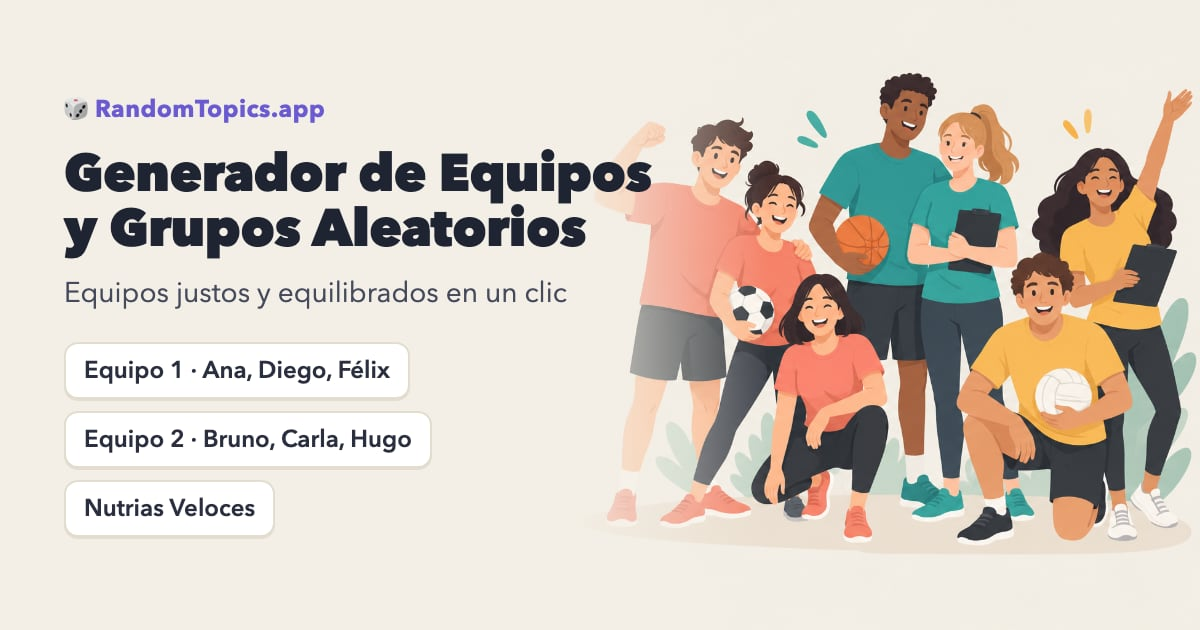
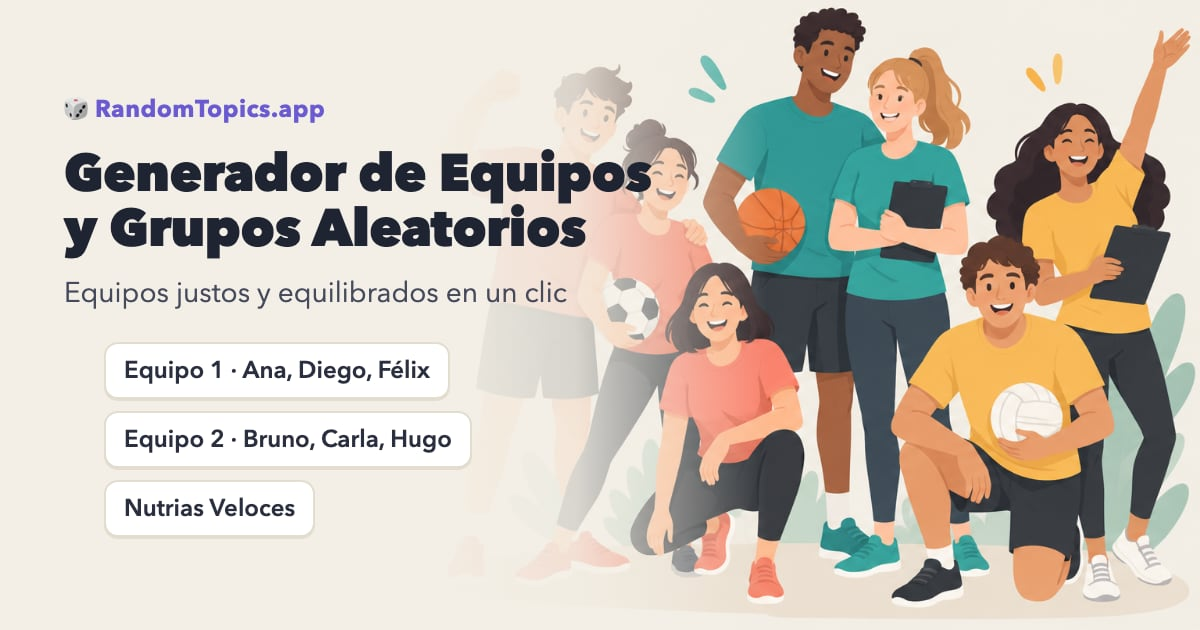
Add Western baby name generator; 3x3 maker wording on /my-9-grid
- /western-baby-name-generator: 126 hand-picked cowboy, country, Southern,
  vintage Western and Yellowstone-style names (boy/girl/gender-neutral),
  each with its usual meaning or origin; gender and style filters, share
  links; covers western/cowboy/yellowstone/country/southern baby names
- Common given names only, nothing quoted from any show
- /my-9-grid title and In short now say 3x3 maker / 3x3 grid maker /
  3x3 generator (same page, no new URL)
- Cross-links (last-name page, Keep playing names group), registry
  (cross-link only), sitemap, share card, data-quality test

diff --git a/src/lib/generators/westernNames.ts b/src/lib/generators/westernNames.ts
@@ -1,0 +1,175 @@
+// Western / cowboy baby names — curated in-house 2026-10. Common given names
+// only (no quotes or plots from any show). Meanings are the usual etymology or
+// the well-known reason the name feels Western; "yellowstone" marks names
+// popularised by ranch dramas such as Yellowstone.
+import { listGenerator } from "./core";
+import type { FilterGroup } from "@/components/generators/GeneratorUI";
+
+export type Gender = "boy" | "girl" | "unisex";
+export type Style = "yellowstone" | "cowboy" | "country" | "vintage" | "southern";
+
+export interface WesternName { name: string; gender: Gender; styles: Style[]; meaning: string }
+
+const n = (name: string, gender: Gender, styles: Style[], meaning: string): WesternName => ({ name, gender, styles, meaning });
+
+export const WESTERN_NAMES: WesternName[] = [
+  // Boys
+  n("Dutton", "boy", ["yellowstone"], "English surname from a place name, “Dudda's settlement”; now known as a ranching family name."),
+  n("Kayce", "boy", ["yellowstone", "cowboy"], "Spelling of Casey, from the Irish Ó Cathasaigh, “watchful, vigilant”."),
+  n("Rip", "boy", ["yellowstone", "cowboy"], "Short, tough-sounding nickname; also short for Ripley, Old English for “strip clearing”."),
+  n("Lloyd", "boy", ["yellowstone", "vintage"], "Welsh llwyd, “grey” or “grey-haired”."),
+  n("Tate", "boy", ["yellowstone"], "Old Norse–English surname often read as “cheerful”."),
+  n("Walker", "boy", ["yellowstone", "country"], "English occupational name for someone who fulled (thickened) cloth by walking on it."),
+  n("Colby", "boy", ["yellowstone"], "English place name from Old Norse, “Koli's farm”."),
+  n("Carter", "boy", ["yellowstone"], "English occupational name, “cart driver”."),
+  n("Jimmy", "boy", ["yellowstone", "vintage"], "Pet form of James, from Hebrew Jacob, “supplanter”."),
+  n("Waylon", "boy", ["country", "cowboy"], "From Wayland, Old English, often given as “land by the road”; made famous by outlaw-country singer Waylon Jennings."),
+  n("Maverick", "boy", ["cowboy"], "After Texas rancher Samuel Maverick, who left his calves unbranded; now means “independent thinker”."),
+  n("Colt", "boy", ["cowboy"], "English word for a young horse; also the classic Western revolver."),
+  n("Wyatt", "boy", ["cowboy"], "From the medieval name Wyot, Old English “brave in war”; Wyatt Earp made it a frontier name."),
+  n("Cody", "boy", ["cowboy"], "Irish surname Ó Cuidighthigh, “helpful”; Cody, Wyoming, is named after Buffalo Bill Cody."),
+  n("Wade", "boy", ["cowboy", "southern"], "Old English, “to go” or “river ford”."),
+  n("Boone", "boy", ["cowboy", "southern"], "From Old French bon, “good”; frontiersman Daniel Boone."),
+  n("Bowie", "boy", ["cowboy"], "Scottish Gaelic, “yellow-haired”; the Bowie knife and Jim Bowie of the Alamo."),
+  n("Ryder", "boy", ["cowboy"], "English, “mounted rider, horseman”."),
+  n("Ranger", "boy", ["cowboy"], "English word for a keeper of open land; brings to mind the Texas Rangers."),
+  n("Rowdy", "boy", ["cowboy"], "English, “boisterous”; a rodeo-arena favourite."),
+  n("Tex", "boy", ["cowboy"], "Nickname for someone from Texas."),
+  n("Duke", "boy", ["cowboy", "vintage"], "From Latin dux, “leader”; John Wayne's lifelong nickname."),
+  n("Jesse", "boy", ["cowboy", "vintage"], "Hebrew, “gift”."),
+  n("Levi", "boy", ["cowboy", "vintage"], "Hebrew, “joined, attached”; also Levi Strauss of denim jeans."),
+  n("Dallas", "boy", ["cowboy", "southern"], "Scottish place name, “meadow dwelling”; also the Texas city."),
+  n("Austin", "boy", ["cowboy", "southern"], "From Augustine, Latin “great, venerable”; the capital of Texas."),
+  n("Ridge", "boy", ["cowboy"], "English, a long mountain ridge."),
+  n("Wilder", "boy", ["cowboy"], "English, “wild, untamed”."),
+  n("Wes", "boy", ["cowboy", "vintage"], "Short for Wesley, Old English “western meadow”."),
+  n("Weston", "boy", ["cowboy"], "Old English, “western town”."),
+  n("Hank", "boy", ["country", "vintage"], "Pet form of Henry, “home ruler”; Hank Williams."),
+  n("Cash", "boy", ["country"], "English word for money; a nod to Johnny Cash."),
+  n("Garth", "boy", ["country"], "Old Norse garðr, “enclosure, garden”."),
+  n("Merle", "boy", ["country", "vintage"], "From French merle, “blackbird”; Merle Haggard."),
+  n("Dwight", "boy", ["country", "vintage"], "English surname of uncertain origin, possibly from Dionysius."),
+  n("Hayes", "boy", ["country"], "English and Irish, “hedged enclosure”."),
+  n("Tucker", "boy", ["country", "southern"], "English occupational name for a cloth fuller."),
+  n("Brooks", "boy", ["country"], "English, “of the brook”."),
+  n("Clay", "boy", ["country", "southern"], "English, a worker in clay or someone living on clay soil."),
+  n("Lane", "boy", ["country"], "English, “narrow road”."),
+  n("Grady", "boy", ["country", "southern"], "Irish Ó Grádaigh, often given as “noble”."),
+  n("Luke", "boy", ["country"], "Greek, “man from Lucania”."),
+  n("Beau", "boy", ["southern"], "French, “handsome”."),
+  n("Rhett", "boy", ["southern"], "From a Dutch surname meaning “advice”; Rhett Butler made it Southern."),
+  n("Crockett", "boy", ["southern", "cowboy"], "Surname of frontiersman Davy Crockett."),
+  n("Jackson", "boy", ["southern"], "English, “son of Jack”."),
+  n("Augustus", "boy", ["vintage", "cowboy"], "Latin, “great, venerable”; often shortened to Gus on the trail."),
+  n("Gus", "boy", ["vintage", "cowboy"], "Short for Augustus or Angus."),
+  n("Amos", "boy", ["vintage"], "Hebrew, “carried by God”."),
+  n("Jed", "boy", ["vintage"], "Short for Jedidiah, Hebrew “beloved of God”."),
+  n("Silas", "boy", ["vintage"], "Latin Silvanus, “of the forest”."),
+  n("Emmett", "boy", ["vintage", "cowboy"], "From German Emma, “whole, universal”."),
+  n("Virgil", "boy", ["vintage", "cowboy"], "From the Roman family name Vergilius."),
+  n("Ezra", "boy", ["vintage"], "Hebrew, “help”."),
+  n("Abner", "boy", ["vintage"], "Hebrew, “father of light”."),
+  n("Calvin", "boy", ["vintage"], "From Latin calvus, “bald”."),
+  n("Holden", "boy", ["vintage"], "Old English, “deep valley”."),
+  n("Hudson", "boy", ["country"], "English, “son of Hugh”."),
+  n("Sawyer", "boy", ["country"], "English occupational name, “woodcutter”."),
+  n("Archer", "boy", ["cowboy"], "English, “bowman”."),
+  n("Jasper", "boy", ["vintage"], "Possibly Persian, “treasurer”; also a red gemstone."),
+  n("Cassidy", "boy", ["cowboy"], "Irish Ó Caiside, “curly-haired”; outlaw Butch Cassidy."),
+  // Girls
+  n("Beth", "girl", ["yellowstone", "vintage"], "Short for Elizabeth, Hebrew “God is my oath”."),
+  n("Monica", "girl", ["yellowstone"], "Late Latin name of uncertain origin, often linked to “advisor”."),
+  n("Evelyn", "girl", ["yellowstone", "vintage"], "From the Norman name Aveline; an old English surname turned first name."),
+  n("Laramie", "girl", ["yellowstone", "cowboy"], "After the Wyoming city, named for French-Canadian trapper Jacques La Ramée."),
+  n("Dolly", "girl", ["country", "vintage"], "Pet form of Dorothy, Greek “gift of God”; Dolly Parton."),
+  n("Reba", "girl", ["country"], "Short for Rebecca, Hebrew, often given as “to bind”; Reba McEntire."),
+  n("Loretta", "girl", ["country", "vintage"], "Italian diminutive of Laura, “laurel”; Loretta Lynn."),
+  n("Patsy", "girl", ["country", "vintage"], "Pet form of Patricia, Latin “noble”; Patsy Cline."),
+  n("June", "girl", ["country", "vintage"], "From the month, named for the Roman goddess Juno; June Carter Cash."),
+  n("Emmylou", "girl", ["country"], "Blend of Emmy and Lou, made famous by Emmylou Harris."),
+  n("Annie", "girl", ["cowboy", "vintage"], "Pet form of Anne, Hebrew “grace”; sharpshooter Annie Oakley."),
+  n("Belle", "girl", ["cowboy", "southern"], "French, “beautiful”; Western outlaw Belle Starr."),
+  n("Clementine", "girl", ["cowboy", "vintage"], "Latin, “merciful”; the old Western ballad “Oh My Darling, Clementine”."),
+  n("Josephine", "girl", ["vintage", "cowboy"], "Hebrew, “God will increase”."),
+  n("Hattie", "girl", ["vintage", "southern"], "Pet form of Harriet, “home ruler”."),
+  n("Opal", "girl", ["vintage"], "Gemstone; from Sanskrit upala, “precious stone”."),
+  n("Pearl", "girl", ["vintage"], "The gem; a frontier-era favourite."),
+  n("Ruby", "girl", ["vintage", "country"], "The red gem, from Latin ruber, “red”."),
+  n("Etta", "girl", ["vintage"], "Short for Henrietta, “home ruler”; outlaw-era Etta Place."),
+  n("Mae", "girl", ["vintage", "southern"], "Spelling of May, the month; also short for Mary or Margaret."),
+  n("Lucille", "girl", ["vintage", "country"], "French form of Lucilla, Latin “light”."),
+  n("Hazel", "girl", ["vintage"], "The hazel tree."),
+  n("Della", "girl", ["vintage"], "Short for Adela, Germanic “noble”."),
+  n("Cora", "girl", ["vintage"], "Greek Kore, “maiden”."),
+  n("Adeline", "girl", ["vintage"], "Germanic, “noble”."),
+  n("Daisy", "girl", ["country", "vintage"], "The flower, Old English “day's eye”."),
+  n("Rose", "girl", ["country", "vintage"], "The flower."),
+  n("Savannah", "girl", ["southern"], "Spanish sabana, “treeless plain”; the Georgia city."),
+  n("Georgia", "girl", ["southern"], "Greek, “farmer”; the Southern state."),
+  n("Magnolia", "girl", ["southern"], "The flowering tree of the American South, named for botanist Pierre Magnol."),
+  n("Scarlett", "girl", ["southern"], "English, “scarlet cloth”; Scarlett O'Hara."),
+  n("Carolina", "girl", ["southern"], "Feminine of Charles, “free man”; the Carolinas."),
+  n("Virginia", "girl", ["southern", "vintage"], "From the Roman family name Verginius; the state."),
+  n("Charlotte", "girl", ["southern"], "French feminine of Charles, “free man”."),
+  n("Lainey", "girl", ["country"], "Short for Elaine, from Helen, Greek “torch, bright light”."),
+  n("Wynonna", "girl", ["country", "cowboy"], "From Winona, Dakota Sioux “firstborn daughter”."),
+  n("Tallulah", "girl", ["southern"], "Choctaw place name often given as “leaping water”."),
+  n("Sierra", "girl", ["cowboy"], "Spanish, “mountain range”."),
+  n("Willow", "girl", ["country"], "The willow tree."),
+  n("Juniper", "girl", ["cowboy"], "The evergreen shrub of Western hills."),
+  n("Ivy", "girl", ["country", "vintage"], "The climbing plant."),
+  n("Harlow", "girl", ["country"], "Old English, “army hill”."),
+  n("Kinsley", "girl", ["country"], "Old English, “king's meadow”."),
+  n("Blakely", "girl", ["country", "southern"], "Old English, “dark meadow”."),
+  n("Paisley", "girl", ["country"], "The swirling textile pattern, named after Paisley in Scotland."),
+  n("Raelynn", "girl", ["country"], "Modern blend of Rae and Lynn."),
+  // Unisex
+  n("Dakota", "unisex", ["cowboy"], "Dakota Sioux, “friend, ally”; the two Dakotas."),
+  n("Cheyenne", "unisex", ["cowboy"], "From the Cheyenne people; also Wyoming's capital."),
+  n("Montana", "unisex", ["cowboy", "yellowstone"], "Spanish montaña, “mountain”; the state where Yellowstone's ranch country lies."),
+  n("Wyoming", "unisex", ["cowboy"], "From a Lenape phrase often given as “at the big river flat”."),
+  n("Oakley", "unisex", ["cowboy", "country"], "Old English, “oak clearing”; Annie Oakley."),
+  n("Sage", "unisex", ["cowboy"], "The sagebrush of the Western plains; also “wise”."),
+  n("Aspen", "unisex", ["cowboy"], "The quaking aspen tree of the Rockies."),
+  n("Casey", "unisex", ["country", "cowboy"], "Irish Ó Cathasaigh, “watchful”."),
+  n("Shelby", "unisex", ["southern", "country"], "Old Norse–English place name, “willow farm”."),
+  n("Reese", "unisex", ["southern"], "From Welsh Rhys, “ardour, enthusiasm”."),
+  n("Jessie", "unisex", ["cowboy", "vintage"], "Pet form of Jesse or Jessica."),
+  n("Charlie", "unisex", ["country", "vintage"], "Pet form of Charles or Charlotte, “free”."),
+  n("Bailey", "unisex", ["country"], "English, “bailiff, steward”."),
+  n("Harper", "unisex", ["southern"], "English, “harp player”; Harper Lee."),
+  n("Sutton", "unisex", ["southern", "country"], "Old English, “southern town”."),
+  n("Rio", "unisex", ["cowboy"], "Spanish, “river”; the Rio Grande."),
+  n("River", "unisex", ["cowboy", "country"], "Nature name, the river."),
+  n("Rowan", "unisex", ["country"], "Irish Ó Ruadháin, “little red one”; also the rowan tree."),
+];
+
+export const GENDER_LABELS: Record<Gender, string> = { boy: "Boy", girl: "Girl", unisex: "Gender-neutral" };
+export const STYLE_LABELS: Record<Style, string> = {
+  yellowstone: "Yellowstone-style ranch",
+  cowboy: "Cowboy & frontier",
+  country: "Country music",
+  vintage: "Vintage Western",
+  southern: "Southern",
+};
+
+export function westernFilters(): FilterGroup[] {
+  return [
+    { id: "gender", label: "Gender", multi: true, options: Object.entries(GENDER_LABELS).map(([value, label]) => ({ value, label })) },
+    { id: "style", label: "Style", multi: true, options: Object.entries(STYLE_LABELS).map(([value, label]) => ({ value, label })) },
+  ];
+}
+
+export function westernNameGenerator() {
+  return listGenerator<WesternName>({
+    items: WESTERN_NAMES,
+    key: (w) => w.name,
+    facets: { gender: (w) => [w.gender], style: (w) => w.styles },
+    toResult: (w) => ({
+      key: w.name,
+      title: w.name,
+      subtitle: `${GENDER_LABELS[w.gender]} · ${w.styles.map((s) => STYLE_LABELS[s]).join(", ")}`,
+      detail: w.meaning,
+    }),
+  });
+}

diff --git a/src/app/western-baby-name-generator/page.tsx b/src/app/western-baby-name-generator/page.tsx
@@ -1,0 +1,75 @@
+import type { Metadata } from "next";
+import Link from "next/link";
+import GeneratorPageShell, { SectionTitle, linkClass } from "@/components/generators/GeneratorPageShell";
+import WesternNameGenerator from "@/components/generators/WesternNameGenerator";
+import { SITE_URL, hreflangAlternates } from "@/i18n/config";
+import { generatorSocial } from "@/lib/generatorSocial";
+import { STYLE_LABELS, WESTERN_NAMES, type Style } from "@/lib/generators/westernNames";
+
+const PATH = "/western-baby-name-generator";
+const TITLE = "Western Baby Name Generator — Cowboy, Country & Yellowstone-Style Names";
+const DESCRIPTION =
+  `Free Western baby name generator: ${WESTERN_NAMES.length} cowboy, country, Southern and vintage Western names for boys, girls and gender-neutral babies — including Yellowstone-style ranch names like Kayce, Rip, Beth and Laramie — each with its meaning or origin.`;
+
+const SOCIAL = generatorSocial({ card: "western-baby-name-generator", title: TITLE, description: DESCRIPTION, alt: "Western baby name generator — cowboy and country names with meanings" });
+
+export const metadata: Metadata = {
+  title: { absolute: TITLE },
+  description: DESCRIPTION,
+  keywords: ["western baby names", "cowboy baby names", "yellowstone baby names", "country baby names", "southern baby names generator", "western baby name generator", "cowboy names for boys", "western girl names"],
+  alternates: { canonical: PATH, languages: hreflangAlternates(PATH) },
+  openGraph: { title: TITLE, description: DESCRIPTION, url: `${SITE_URL}${PATH}`, siteName: "Random Topics", type: "website", images: SOCIAL.images },
+  twitter: SOCIAL.twitter,
+};
+
+const FAQ = [
+  { question: "What are Western baby names?", answer: "Western or cowboy baby names are names with a ranch, frontier or country-music feel — trail and rodeo names like Colt, Wyatt and Maverick, place names like Dallas, Cheyenne and Laramie, and vintage favourites like Annie, Clementine and Gus. This generator also covers Southern classics and gender-neutral nature names such as Sage and Aspen." },
+  { question: "What are Yellowstone-style baby names?", answer: "Ranch dramas such as Yellowstone brought names like Dutton, Kayce, Rip, Beth, Lloyd, Tate and Laramie back into conversation. Pick the “Yellowstone-style ranch” style to see them. They are ordinary given names; the meanings shown are their usual origins, not anything from the show." },
+  { question: "Can I filter by boy, girl or gender-neutral?", answer: "Yes. Choose one or more genders and one or more styles — Yellowstone-style ranch, cowboy & frontier, country music, vintage Western or Southern — then generate. Leave a filter empty to include everything." },
+  { question: "Where do the meanings come from?", answer: "Each meaning is the name's usual etymology, or the well-known reason it feels Western (a frontier figure, a place or a country singer). Name meanings are often debated, so treat them as a starting point and look up a name you love in more depth." },
+  { question: "Can I share a list of names?", answer: "Yes — every result list has a share link that reopens exactly the same names, so you can send a shortlist to your partner or family." },
+];
+
+const STYLES = Object.keys(STYLE_LABELS) as Style[];
+
+export default function WesternBabyNamePage() {
+  return (
+    <GeneratorPageShell
+      locale="en"
+      path={PATH}
+      name="Western Baby Name Generator"
+      heading={["Western Baby Name", "Generator"]}
+      intro="Cowboy, country, Southern and Yellowstone-style names for boys, girls and gender-neutral babies — each with its meaning."
+      description={DESCRIPTION}
+      updated="2026-10-13"
+      faq={FAQ}
+      inShort={`Pick boy, girl or gender-neutral and a style — Yellowstone-style ranch, cowboy & frontier, country music, vintage Western or Southern — and get random Western baby names from a hand-picked list of ${WESTERN_NAMES.length}, each with a one-line meaning or origin. Save a shortlist with the share link. It is free and needs no signup.`}
+      related={[
+        { href: "/last-name-generator", label: "Last name generator" },
+        { href: "/country-name-generator", label: "Country name generator" },
+        { href: "/character-name-generator", label: "Character name generator" },
+        { href: "/viking-name-generator", label: "Viking name generator" },
+      ]}
+      content={
+        <>
+          <SectionTitle>Western names by style</SectionTitle>
+          {STYLES.map((s) => (
+            <p key={s}>
+              <strong>{STYLE_LABELS[s]}:</strong>{" "}
+              {WESTERN_NAMES.filter((w) => w.styles.includes(s)).slice(0, 14).map((w) => w.name).join(", ")}.
+            </p>
+          ))}
+          <SectionTitle>Choosing a Western name</SectionTitle>
+          <ul className="list-disc pl-5 space-y-1">
+            <li><strong>Say it with the last name.</strong> One-syllable names (Colt, Wade, Rose) pair well with longer surnames; longer ones (Clementine, Augustus) with short surnames. Try surnames in the <Link href="/last-name-generator" className={linkClass}>last name generator</Link>.</li>
+            <li><strong>Nickname test.</strong> Augustus becomes Gus, Josephine becomes Josie, Wesley becomes Wes — check you like both.</li>
+            <li><strong>Place names</strong> such as Dallas, Cheyenne, Montana or Laramie carry the West without sounding like a costume.</li>
+            <li>Writing a Western story instead? The <Link href="/character-name-generator" className={linkClass}>character name generator</Link> and <Link href="/country-name-generator" className={linkClass}>country name generator</Link> help with the rest of the cast and the world.</li>
+          </ul>
+        </>
+      }
+    >
+      <WesternNameGenerator />
+    </GeneratorPageShell>
+  );
+}

diff --git a/src/app/my-9-grid/page.tsx b/src/app/my-9-grid/page.tsx
@@ -6,7 +6,7 @@ import { SITE_URL, hreflangAlternates } from "@/i18n/config";
 import { generatorSocial } from "@/lib/generatorSocial";
 
 const PATH = "/my-9-grid";
-const TITLE = "My 9 Grid Maker — Make a 3×3 Picture Grid from Any 9 Images, Free";
+const TITLE = "3x3 Grid Maker (My 9 Template) — Make a 3×3 Picture Grid, Free";
 const DESCRIPTION =
   "Free 3×3 grid maker for the My 9 trend: add any 9 pictures — K-pop, characters, foods, places — rearrange them and download one 1080×1080 PNG or story image. Works in your browser, no upload, no signup, no watermark.";
 
@@ -15,7 +15,7 @@ const SOCIAL = generatorSocial({ card: "my-9-grid", title: TITLE, description: D
 export const metadata: Metadata = {
   title: { absolute: TITLE },
   description: DESCRIPTION,
-  keywords: ["my 9 grid", "3x3 grid maker", "9 grid template", "my 9 template", "3x3 picture grid", "9 picture collage", "my top 9 maker"],
+  keywords: ["3x3 maker", "3x3 grid maker", "3x3 generator", "my 9 grid", "9 grid template", "my 9 template", "3x3 picture grid", "9 picture collage", "my top 9 maker"],
   alternates: { canonical: PATH, languages: hreflangAlternates(PATH) },
   openGraph: { title: TITLE, description: DESCRIPTION, url: `${SITE_URL}${PATH}`, siteName: "Random Topics", type: "website", images: SOCIAL.images },
   twitter: SOCIAL.twitter,
@@ -40,7 +40,7 @@ export default function MyNineGridPage() {
       updated="2026-10-12"
       faq={FAQ}
       related={[{ href: "/my-9-albums", label: "My 9 Albums" }, { href: "/my-9-games", label: "My 9 Games" }, { href: "/my-9-movies", label: "My 9 Movies" }, { href: "/my-9-anime", label: "My 9 Anime" }, { href: "/my-9-books", label: "My 9 Books" }, { href: "/random-food-generator", label: "Random food generator" }]}
-      inShort="Choose up to nine pictures from your device, reorder them by tapping two squares, give the grid a title and download a 1080×1080 PNG or a story-size image. Everything happens in your browser — your pictures are never uploaded."
+      inShort="A free 3x3 maker (also called a 3x3 grid maker or 3x3 generator): choose up to nine pictures from your device, reorder them by tapping two squares, give the grid a title and download a 1080×1080 PNG or a story-size image. Everything happens in your browser — your pictures are never uploaded."
       content={
         <>
           <SectionTitle>Any topic, nine pictures</SectionTitle>

diff --git a/src/data/relatedTools.ts b/src/data/relatedTools.ts
@@ -45,6 +45,7 @@ export const RELATED_TOOLS: RelatedTool[] = [
   { href: "/viking-name-generator", label: "Viking Name Generator", emoji: "🛡", blurb: "Old Norse names", groups: ["names"] },
   { href: "/japanese-name-generator", label: "Japanese Name Generator", emoji: "🎌", blurb: "Kanji, kana and meaning", groups: ["names"] },
   { href: "/gnome-name-generator", label: "Gnome Name Generator", emoji: "⚙", blurb: "Names, nicknames, clans", groups: ["names"] },
+  { href: "/western-baby-name-generator", label: "Western Baby Name Generator", emoji: "🤠", blurb: "Cowboy & country names", groups: ["names"] },
   { href: "/last-name-generator", label: "Last Name Generator", emoji: "🏷", blurb: "Surnames with meanings", groups: ["names"] },
   { href: "/dragon-name-generator", label: "Dragon Name Generator", emoji: "🐲", blurb: "Names for dragons", groups: ["names"] },
   { href: "/band-name-generator", label: "Band Name Generator", emoji: "🎸", blurb: "Names for your band", groups: ["names", "party"] },

diff --git a/src/components/generators/WesternNameGenerator.tsx b/src/components/generators/WesternNameGenerator.tsx
@@ -1,0 +1,23 @@
+"use client";
+
+import { useMemo } from "react";
+import GeneratorUI, { GENERATOR_STRINGS_EN } from "./GeneratorUI";
+import { westernFilters, westernNameGenerator } from "@/lib/generators/westernNames";
+
+export default function WesternNameGenerator() {
+  const gen = useMemo(() => westernNameGenerator(), []);
+  const filters = useMemo(() => westernFilters(), []);
+  return (
+    <GeneratorUI
+      toolType="western_baby_name_generator"
+      locale="en"
+      strings={GENERATOR_STRINGS_EN}
+      filters={filters}
+      counts={[1, 5, 10, 20]}
+      defaultCount={10}
+      poolSize={gen.poolSize}
+      generate={gen.generate}
+      resolve={gen.resolve}
+    />
+  );
+}

diff --git a/src/data/generators/registry.ts b/src/data/generators/registry.ts
@@ -185,6 +185,13 @@ export const RANDOM_GENERATORS: GeneratorLink[] = [
     detail: { en: "Strip EXIF, GPS, C2PA, prompts" },
     crossLinkOnly: true,
   },
+  {
+    href: "/western-baby-name-generator",
+    emoji: "🤠",
+    label: { en: "Western Baby Name Generator" },
+    detail: { en: "Cowboy & country names with meanings" },
+    crossLinkOnly: true,
+  },
 ];
 
 export function generatorsFor(locale: "en" | "es", opts: { crossLinks?: boolean } = {}): { href: string; emoji: string; label: string; detail: string }[] {

diff --git a/src/app/last-name-generator/page.tsx b/src/app/last-name-generator/page.tsx
@@ -61,6 +61,7 @@ export default function LastNameGeneratorPage() {
       faq={FAQ}
       related={[
         { href: "/japanese-name-generator", label: "Japanese name generator" },
+        { href: "/western-baby-name-generator", label: "Western baby name generator" },
         { href: "/writing", label: "Writing prompt generator" },
         { href: "/writing-topic-generator", label: "Writing topic generator" },
         { href: "/topics/writing-prompts-for-kids", label: "Writing prompts for kids" },

diff --git a/src/app/sitemap.ts b/src/app/sitemap.ts
@@ -143,6 +143,7 @@ export default function sitemap(): MetadataRoute.Sitemap {
     "random-name-picker",
     "number-randomizer",
     "ai-metadata-remover",
+    "western-baby-name-generator",
   ]) {
     entries.push({ path: `/${p}`, changeFrequency: "monthly", priority: 0.85, lastModified: "2026-10-10" });
   }

diff --git a/src/i18n/config.ts b/src/i18n/config.ts
@@ -145,6 +145,7 @@ export const EN_ONLY_PATHS: ReadonlySet<string> = new Set([
   "/random-name-picker",
   "/number-randomizer",
   "/ai-metadata-remover",
+  "/western-baby-name-generator",
 ]);
 
 /** Spanish-only editorial pages with no honest one-to-one English alternate. */
